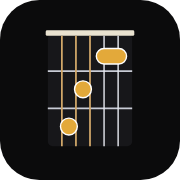
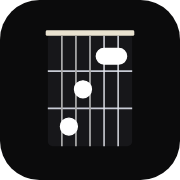
Monochrome black/grey/white theme, quieter motion, refined focus rings
Claude-Session: https://claude.ai/code/session_01EhUccF9YGHaihqioShzePR

Changed region(s): [[0.3333, 0.1944, 0.7222, 0.8056]]

diff --git a/frontend/src/index.css b/frontend/src/index.css
@@ -21,11 +21,13 @@
   --wheel-stroke: #ffffff;
   --wheel-dot: #b4b2ad;
   --board: #151517;
-  --finger-a: #fbf8ef;
-  --finger-b: #cfc9b8;
+  --pearl: #ffffff;
+  --focus-halo: #ffffff;
+  --finger-a: #ffffff;
+  --finger-b: #bdbdbd;
   --finger-line: #0c0c0c;
-  --dot: #cfcdc6;
-  --dot-root: #e3a93a;
+  --dot: #8c8c8c;
+  --dot-root: #ffffff;
   --dot-ring: #ffffff;
   --font-display: 'Bricolage Grotesque', 'Avenir Next', 'Segoe UI', system-ui, sans-serif;
   --font-body: 'Instrument Sans', 'Avenir Next', 'Segoe UI', system-ui, sans-serif;
@@ -42,8 +44,8 @@
   --ink-2: #d4d2cc;
   --ink-3: #a09e98;
   --line: #2a2a2c;
-  --accent: #d9a23c;
-  --accent-dark: #ecbb5a;
+  --accent: #ecebe7;
+  --accent-dark: #ffffff;
   --accent-tint: #232322;
   --on-accent: #0b0b0c;
   --error-bg: #2b1518;
@@ -75,10 +77,25 @@ button, input, select { font: inherit; color: inherit; }
 button { cursor: pointer; }
 
 :focus-visible {
-  outline: 3px solid var(--accent);
-  outline-offset: 2px;
+  outline: 2px solid var(--ink);
+  outline-offset: 3px;
 }
 
 @media (prefers-reduced-motion: reduce) {
   * { transition: none !important; animation: none !important; scroll-behavior: auto !important; }
 }
+
+/* Refinement: quiet motion on controls, a hairline highlight on the panels, one soft entrance. */
+button, select, .row, .tab, .chip {
+  transition: background-color 0.16s ease, border-color 0.16s ease, color 0.16s ease, box-shadow 0.16s ease, transform 0.16s ease;
+}
+button:active:not(:disabled) { transform: translateY(1px); }
+.detail, .scales, .prog, .study, .pt { box-shadow: inset 0 1px 0 rgba(255, 255, 255, 0.5); }
+:root[data-theme='dark'] .detail,
+:root[data-theme='dark'] .scales,
+:root[data-theme='dark'] .prog,
+:root[data-theme='dark'] .study,
+:root[data-theme='dark'] .pt { box-shadow: inset 0 1px 0 rgba(255, 255, 255, 0.05); }
+::selection { background: var(--ink); color: var(--paper); }
+@keyframes settle { from { opacity: 0; transform: translateY(6px); } to { opacity: 1; transform: none; } }
+.detail { animation: settle 0.28s ease-out; }

diff --git a/frontend/src/styles/ScaleNeck.css b/frontend/src/styles/ScaleNeck.css
@@ -23,16 +23,16 @@
 .nh-board { fill: var(--board); }
 .nh-inlay { fill: #e9e2d0; opacity: 0.2; }
 .nh-fret { stroke: #c9ccd6; stroke-width: 2; }
-.nh-nut { stroke: #f2ecda; stroke-width: 6; }
+.nh-nut { stroke: #e6e6e6; stroke-width: 6; }
 .nh-string { stroke: #e6e8ef; }
-.nh-string-wound { stroke: #d2a86a; }
+.nh-string-wound { stroke: #a9a9a9; }
 .nh-fretnum { font: 600 12px var(--font-body); fill: var(--ink-soft); }
 .nh-dot circle { fill: var(--dot); stroke: #0c0c0c; stroke-width: 1.2; transition: opacity 0.2s; }
 .nh-dot text { font: 700 11.5px var(--font-display); fill: #0c0c0c; pointer-events: none; }
 .nh-dot.is-root circle { fill: var(--dot-root); stroke: #0c0c0c; stroke-width: 1.6; }
 .nh-dot.is-root text { fill: #0c0c0c; }
 .nh-dot.is-chord circle { stroke: var(--dot-ring); stroke-width: 3.4; }
-.nh-dot.is-chord.is-root circle { stroke: var(--dot-ring); stroke-width: 3.4; }
+.nh-dot.is-chord.is-root circle { stroke: #b5b5b5; stroke-width: 3.4; }
 .nh-dot.is-off { opacity: 0.16; }
 
 .scales-legend { display: flex; flex-wrap: wrap; gap: 6px 18px; margin: 10px 0 0; font-size: 0.8rem; color: var(--ink-soft); }

diff --git a/frontend/src/components/GuitarFretboard.js b/frontend/src/components/GuitarFretboard.js
@@ -66,8 +66,8 @@ function GuitarFretboard({ positions, baseFret = 1, barre, compact = false, show
             <stop offset="1" stopColor="#0d0d0f" />
           </linearGradient>
           <linearGradient id={`bone${uid}`} x1="0" x2="0" y1="0" y2="1">
-            <stop offset="0" stopColor="#f6f1e3" />
-            <stop offset="1" stopColor="#d9d1bb" />
+            <stop offset="0" stopColor="#ffffff" />
+            <stop offset="1" stopColor="#bdbdbd" />
           </linearGradient>
           <linearGradient id={`finger${uid}`} x1="0" x2="0" y1="0" y2="1">
             <stop offset="0" stopColor="var(--finger-a)" />

diff --git a/frontend/src/styles/GuitarFretboard.css b/frontend/src/styles/GuitarFretboard.css
@@ -3,7 +3,7 @@
 .inlay { fill: var(--pearl); opacity: 0.22; }
 .fret-wire { stroke: #c9ccd6; stroke-width: 2.2; }
 .fret-shadow { stroke: rgba(0, 0, 0, 0.45); stroke-width: 2; }
-.string-wound { stroke: #d2a86a; }
+.string-wound { stroke: #a9a9a9; }
 .string-plain { stroke: #e6e8ef; }
 .base-label { font: 700 14px var(--font-display); fill: var(--ink); }
 .mark-open { fill: none; stroke: var(--ink); stroke-width: 2.2; }
